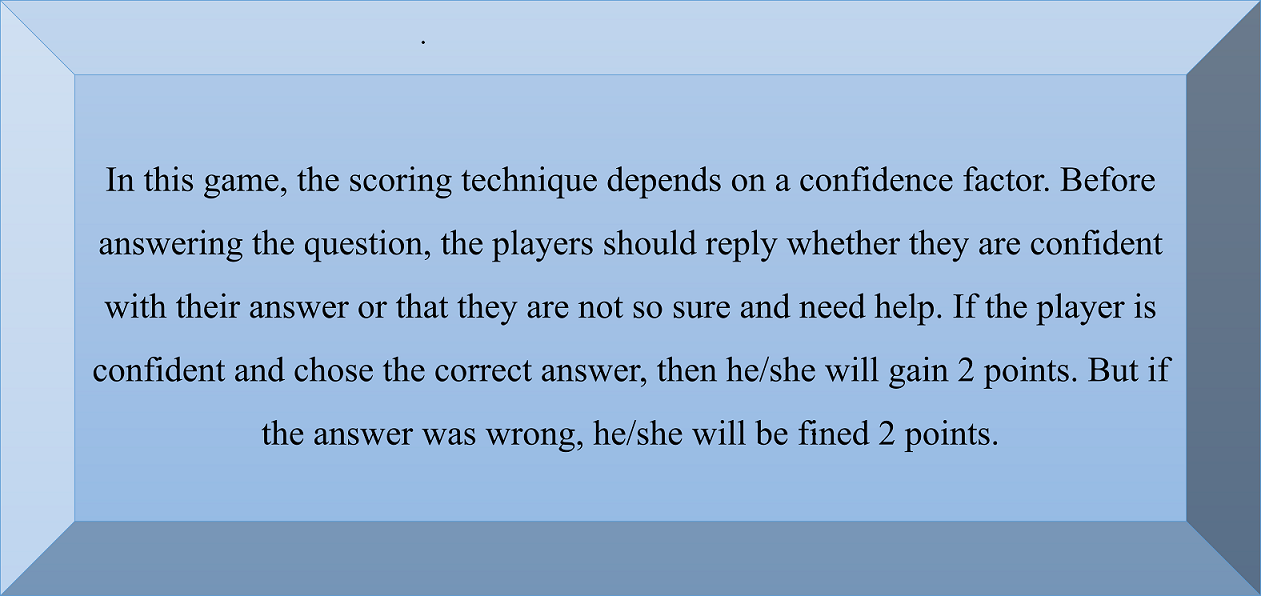
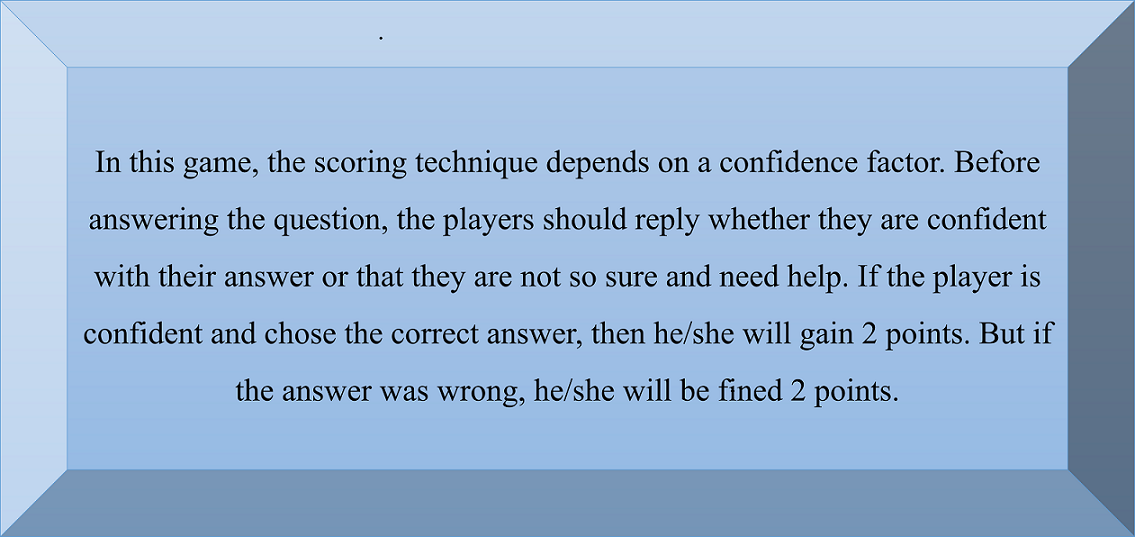
n

diff --git a/theGame/templates/scoring.html b/theGame/templates/scoring.html
@@ -1,9 +1,9 @@
 {% load static %}
-
-<body id="bg" class="back"></body>
-
 <link rel="stylesheet" type="text/css" href="{% static 'css/main.css' %}">
-<table>
+<body id="bg" class="tdStyScore">
+
+
+<table align="center">
     <tr>
         <td>
             <div  class="about" id="scoring1"><img src="{% static 'images/scoring1.png' %}" class="pic">
@@ -15,7 +15,7 @@
         </td>
     </tr>
 </table>
-
+</body>
 
 <div class="invisibleDiv" id="scoring1Backup">
     <img src="{% static 'images/scoring1.png' %}" class="pic">

diff --git a/theGame/static/css/main.css b/theGame/static/css/main.css
@@ -111,13 +111,15 @@
   height: 100%;
   max-height: fit-content;
 }
-.tdStyleback2 {
-  background-image: url("/static/images/backGr2.png");
+.tdStyScore {
+  background-color: #8cc2da;
   overflow: hidden;
   width:100%;
   height: 100%;
   max-height: fit-content;
 }
+
+
 
  .tdStylebackred{
   background-image: url("/static/images/backRed.png");
